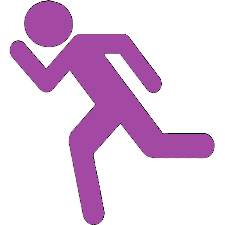
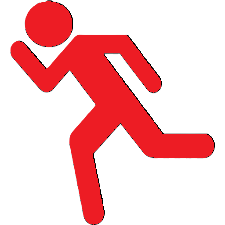
edit annimation

Changed region(s): [[0.0311, 0.0, 0.9644, 1.0]]

diff --git a/src/Game.py b/src/Game.py
@@ -5,55 +5,66 @@ import pygame
 class Game:
     def __init__(self):
         pygame.init()
-        windowGame = Root(pygame)
-        clock = pygame.time.Clock()
-        player1 = Player("Amael", 100, 1, 100, 100, "images/test_stick.png")
-        player2 = Player("Hugo", 100, 1, 300, 300, "images/test_stick - Copie.png")
+        self.windowGame = Root(pygame)
+        self.clock = pygame.time.Clock()
+        self.player1 = Player("Amael", 100, 1, 100, 100, "images/test_stick.png")
+        self.player2 = Player("Hugo", 100, 1, 300, 300, "images/test_stick - Copie.png")
+        self.image_player_left = "images/test_stick - Copie.png"
+        self.image_player_right = "images/test_stick.png"
+        self.image_player_stand = "images/stickman_test.png"
+
+        self.launchGame()
+        
+    def launchGame(self):
         runningGame = True
         self.paused = False
         while runningGame:
             for event in pygame.event.get():
                 if event.type == pygame.QUIT:
                     runningGame = False
-
+                if event.type != pygame.KEYDOWN:
+                    self.player2.modifImage(self.image_player_stand)
+                    self.player1.modifImage(self.image_player_stand)
                 if event.type == pygame.MOUSEBUTTONDOWN:
-                    if windowGame.button_rect_stop.collidepoint(event.pos):
+                    if self.windowGame.button_rect_stop.collidepoint(event.pos):
                         self.paused = not self.paused
-
-
 
             keys = pygame.key.get_pressed()
             if keys[pygame.K_ESCAPE]:
                 self.paused = not self.paused
                 pygame.time.wait(175)
             if keys[pygame.K_a]:
-                player1.x -= 10
+                self.player1.x -= 10
+                self.player1.modifImage(self.image_player_left)
             if keys[pygame.K_d]:
-                player1.x += 10
+                self.player1.x += 10
+                self.player1.modifImage(self.image_player_right)
             if keys[pygame.K_w]:
-                player1.y -= 10
+                self.player1.y -= 10
             if keys[pygame.K_s]:
-                player1.y += 10
+                self.player1.y += 10
 
             if keys[pygame.K_j]:
-                player2.x -= 10
+                self.player2.x -= 10
+                self.player2.modifImage(self.image_player_left)
             if keys[pygame.K_l]:
-                player2.x += 10
+                self.player2.x += 10
+                self.player2.modifImage(self.image_player_right)
             if keys[pygame.K_i]:
-                player2.y -= 10
+                self.player2.y -= 10
             if keys[pygame.K_k]:
-                player2.y += 10
+                self.player2.y += 10
 
             if not self.paused:
-                windowGame.changeBg('images/img_bg_game.png')
-                player1.draw(windowGame.screen)
-                player2.draw(windowGame.screen)
-            else :
-                windowGame.stop()
+                self.windowGame.changeBg('images/img_bg_game.png')
+                self.player1.draw(self.windowGame.screen)
+                self.player2.draw(self.windowGame.screen)
+            else:
+                self.windowGame.stop()
 
-            Root.stopButton(windowGame, self.paused)
+            Root.stopButton(self.windowGame, self.paused)
 
             pygame.display.flip()
-            clock.tick(60)
+            self.clock.tick(60)
 
         pygame.quit()

diff --git a/src/Player.py b/src/Player.py
@@ -8,9 +8,12 @@ class Player:
         self.weapon_id = weapon_id
         self.x = x
         self.y = y
-        self.img = pygame.image.load(image).convert()
+        self.img = pygame.image.load(image).convert_alpha()
 
     def draw(self, screen):
         rect = self.img.get_rect()
         rect.center = (self.x, self.y)
         screen.blit(self.img, rect)
+
+    def modifImage(self, image):
+        self.img = pygame.image.load(image).convert_alpha()
